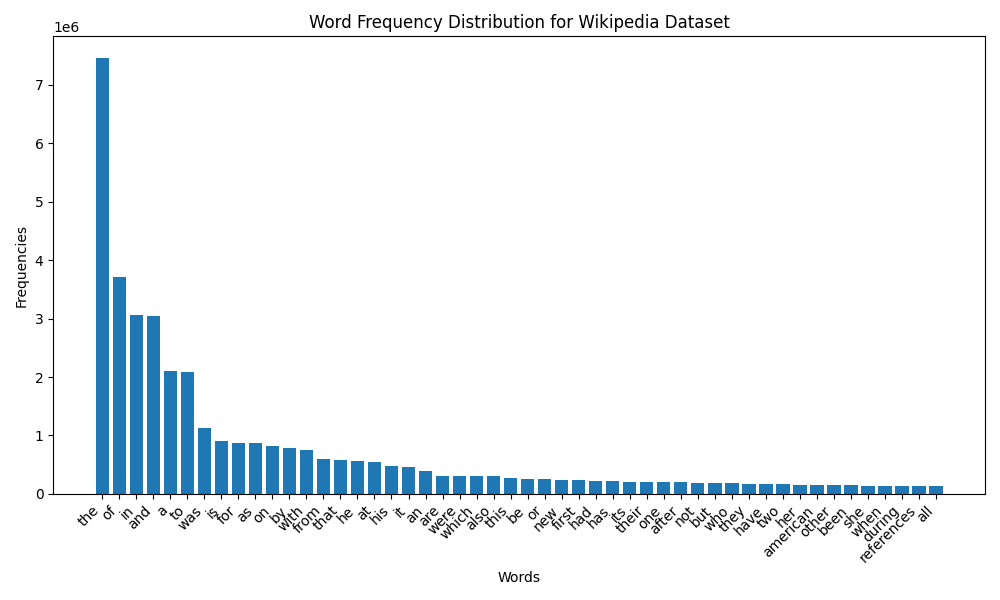
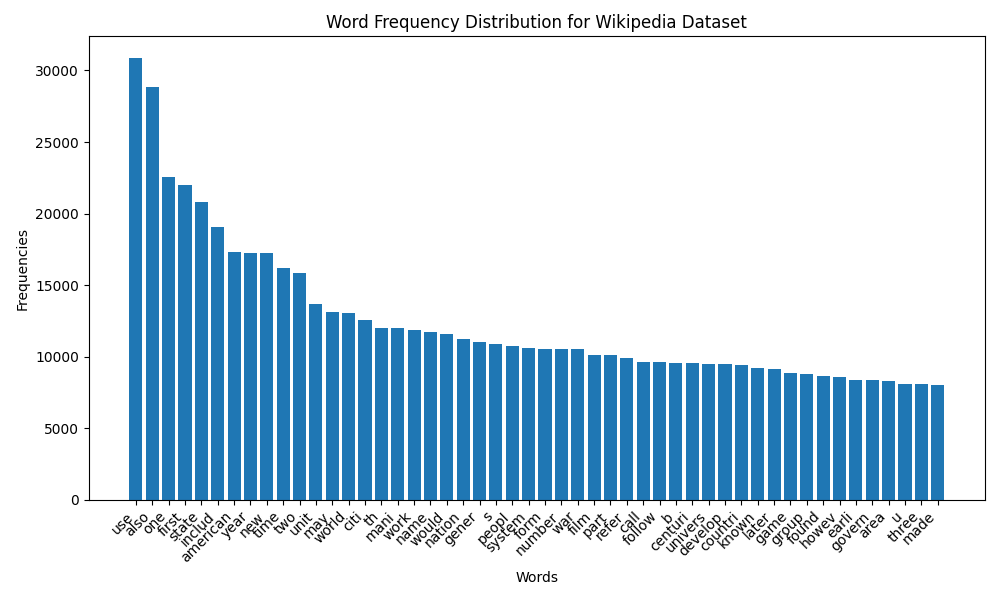
Added max_num_docs to be processed functionality and auto language handling functionality in preprocessing

Changed region(s): [[0.0, 0.09, 0.992, 0.99], [0.31, 0.0, 0.744, 0.06], [0.062, 0.03, 0.093, 0.06]]

diff --git a/indexing_and_retrieval/dataset_handlers.py b/indexing_and_retrieval/dataset_handlers.py
@@ -30,8 +30,9 @@ class Dataset(ABC):
 
 
 class NewsDataset(Dataset):
-    def __init__(self, data_path: str, unzipped: bool) -> None:
+    def __init__(self, data_path: str, max_num_docs: int, unzipped: bool) -> None:
         self.data_path = data_path
+        self.max_num_docs = max_num_docs
         self.unzipped = unzipped
         pass
 
@@ -51,6 +52,8 @@ class NewsDataset(Dataset):
                         all_json_files_paths.append(os.path.join(folder_path, json_file))
             
             # Fet total number of files (to use in tqdm progress bar)
+            if self.max_num_docs != -1:
+                all_json_files_paths = all_json_files_paths[:self.max_num_docs]
             total_files = len(all_json_files_paths)
             yield total_files
 
@@ -75,6 +78,8 @@ class NewsDataset(Dataset):
                             all_json_entries.append((zip_path, json_file))
 
             # Fet total number of files (to use in tqdm progress bar)
+            if self.max_num_docs != -1:
+                all_json_entries = all_json_entries[:self.max_num_docs]
             total_files = len(all_json_entries)
             yield total_files
 
@@ -165,8 +170,22 @@ class NewsDataset(Dataset):
             if lowercase:
                 text = preprocessor.lowercase(text)
             if rem_stop:
-                for lang in stopword_langs:
-                    text = preprocessor.remove_stopwords(text, lang)
+                if "auto" in stopword_langs:
+                    try:
+                        lang: str = data["language"]
+                        text = preprocessor.remove_stopwords(text, lang)
+                    except:
+                        # If language tag not found, skip "auto" and use other specified languages
+                        for lang in stopword_langs:
+                            if lang.strip().lower() == "auto":
+                                continue
+                            text = preprocessor.remove_stopwords(text, lang)
+                else:
+                    # Use all specified languages (no "auto")
+                    for lang in stopword_langs:
+                        if lang.strip().lower() == "auto":
+                            continue
+                        text = preprocessor.remove_stopwords(text, lang)
             if rem_punc or rem_num or rem_special:
                 text = preprocessor.remove(text, rem_punc, rem_num, rem_special)
             if stem:
@@ -181,8 +200,9 @@ class NewsDataset(Dataset):
 
 
 class WikipediaDataset(Dataset):
-    def __init__(self, data_path: str) -> None:
+    def __init__(self, data_path: str, max_num_docs: int) -> None:
         self.data_path = data_path
+        self.max_num_docs = max_num_docs
         pass
 
     # Public functions
@@ -197,16 +217,27 @@ class WikipediaDataset(Dataset):
 
         # Fet total number of rows across all files (to use in tqdm progress bar)
         total_rows = sum(pd.read_parquet(os.path.join(self.data_path, f), engine='pyarrow').shape[0] for f in wikipedia_parquet_files)
+
+        if self.max_num_docs != -1:
+            total_rows = min(total_rows, self.max_num_docs)
         
+        curr_row_count = 0
         with tqdm(total=total_rows, desc="Calculating word frequencies") as pbar:
             for parquet_file in wikipedia_parquet_files:
+                break_flag = False
                 parquet_file_path: str = os.path.join(self.data_path, parquet_file)
                 df = pd.read_parquet(parquet_file_path, engine='pyarrow')
                 for text in df["text"]:
+                    if curr_row_count == self.max_num_docs:
+                        break_flag = True
+                        break
                     item_freq = utils.get_word_freq_dist(text)
                     for word, count in item_freq.items():
                         freq[word] += count
                     pbar.update(1)  # update progress bar for each row
+                    curr_row_count += 1
+                if break_flag:
+                    break
         return freq
 
     def preprocess(self, lowercase: bool, rem_stop: bool, stopword_langs: List[str], rem_punc: bool, rem_num: bool, rem_special: bool, stem: bool, stemming_algo: str, lemmatize: bool, lemmatization_algo: str) -> None:
@@ -217,17 +248,30 @@ class WikipediaDataset(Dataset):
         # Fet total number of rows across all files (to use in tqdm progress bar)
         total_rows = sum(pd.read_parquet(os.path.join(self.data_path, f), engine='pyarrow').shape[0] for f in wikipedia_parquet_files)
         
+        if self.max_num_docs != -1:
+            total_rows = min(total_rows, self.max_num_docs)
+
+        curr_row_count = 0
         preprocessor = Preprocessor()
         with tqdm(total=total_rows, desc="Preprocessing text") as pbar:
             for parquet_file in wikipedia_parquet_files:
+                break_flag = False
                 parquet_file_path: str = os.path.join(self.data_path, parquet_file)
                 df = pd.read_parquet(parquet_file_path, engine='pyarrow')
                 processed_texts = []
                 for text in df["text"]:
+                    if curr_row_count == self.max_num_docs:
+                        # Append remaining unprocessed texts as is and break out
+                        break_flag = True
+                        remaining_texts = df["text"].iloc[len(processed_texts):].tolist()
+                        processed_texts.extend(remaining_texts)
+                        break
                     if lowercase:
                         text = preprocessor.lowercase(text)
                     if rem_stop:
                         for lang in stopword_langs:
+                            if lang.strip().lower() == "auto":
+                                continue
                             text = preprocessor.remove_stopwords(text, lang)
                     if rem_punc or rem_num or rem_special:
                         text = preprocessor.remove(text, rem_punc, rem_num, rem_special)
@@ -238,10 +282,14 @@ class WikipediaDataset(Dataset):
 
                     processed_texts.append(text)
                     pbar.update(1)
+                    curr_row_count += 1
 
                 # Update dataframe with processed text
                 df["text"] = processed_texts
 
                 # Overwrite same parquet file (or change filename if you want to keep original)
                 df.to_parquet(parquet_file_path, index=False, engine='pyarrow')
+
+                if break_flag:
+                    break
         return freq

diff --git a/indexing_and_retrieval/generate_frequency_plots.py b/indexing_and_retrieval/generate_frequency_plots.py
@@ -38,7 +38,8 @@ def plot_frequency_distribution(freq_dict: Dict[str, int], k: int, title: str, x
 def main(args) -> None:
     # Load configuration
     config: dict = utils.load_config()
-    top_k_threshold: int = config["top_k_threshold"]
+    top_k_words_threshold: int = config["top_k_words_threshold"]
+    max_num_documents: int = config["max_num_documents"] if config["max_num_documents"] is not None else -1
     output_folder_path: str = config["output_folder_path"]
     os.makedirs(output_folder_path, exist_ok=True)
 
@@ -48,14 +49,14 @@ def main(args) -> None:
     news_data_path: str = config["data"]["news"]["path"]
     unzipped: bool = config["data"]["news"]["unzip"]
 
-    news_dataset_handler = NewsDataset(news_data_path, unzipped)
+    news_dataset_handler = NewsDataset(news_data_path, max_num_documents, unzipped)
     news_data_freq_dist: dict = news_dataset_handler.calculate_word_frequency()
     plot_frequency_distribution(news_data_freq_dist,
-                                top_k_threshold,
+                                top_k_words_threshold,
                                 "Word Frequency Distribution for News Dataset",
                                 "Words",
                                 "Frequencies",
-                                os.path.join(output_folder_path, f"news_word_frequency_{args.data_state}_top_{top_k_threshold}.png"))
+                                os.path.join(output_folder_path, f"news_word_frequency_{args.data_state}_top_{top_k_words_threshold}.png"))
     print(f"{style.FG_GREEN}Frequency plot for news dataset saved at {output_folder_path}\n{style.RESET}")
 
 
@@ -63,14 +64,14 @@ def main(args) -> None:
     print(f"{style.FG_CYAN}Calculating word frequency for wikipedia dataset...{style.RESET}")
     wikipedia_data_path: str = config["data"]["wikipedia"]["path"]
 
-    wikipedia_dataset_handler = WikipediaDataset(wikipedia_data_path)
+    wikipedia_dataset_handler = WikipediaDataset(wikipedia_data_path, max_num_documents)
     wikipedia_data_freq_dist: dict = wikipedia_dataset_handler.calculate_word_frequency()
     plot_frequency_distribution(wikipedia_data_freq_dist,
-                                top_k_threshold,
+                                top_k_words_threshold,
                                 "Word Frequency Distribution for Wikipedia Dataset",
                                 "Words",
                                 "Frequencies",
-                                os.path.join(output_folder_path, f"wikipedia_word_frequency_{args.data_state}_top_{top_k_threshold}.png"))
+                                os.path.join(output_folder_path, f"wikipedia_word_frequency_{args.data_state}_top_{top_k_words_threshold}.png"))
     print(f"{style.FG_GREEN}Frequency plot for wikipedia dataset saved at {output_folder_path}\n{style.RESET}")
 
 

diff --git a/indexing_and_retrieval/preprocess_data.py b/indexing_and_retrieval/preprocess_data.py
@@ -1,9 +1,8 @@
 # ======================== IMPORTS ========================
 import utils
 from utils import style
-from preprocessor import Preprocessor
-from dataset_handlers import NewsDataset, WikipediaDataset
 from typing import List
+from dataset_handlers import NewsDataset, WikipediaDataset
 
 
 # ======================= FUNCTIONS =======================
@@ -23,17 +22,19 @@ def preprocess_data(config: dict) -> None:
     lemmatization_algo: str | None       = config["preprocessing"]["lemmatization"]["algorithm"]
     lemmatize         : bool             = True if lemmatization_algo else False
 
+    max_num_documents: int = config["max_num_documents"] if config["max_num_documents"] is not None else -1
+
     print(f"{style.FG_CYAN}Preprocessing news dataset...{style.RESET}")
     path_to_news_dataset: str = config["data"]["news"]["path"]
     unzip: bool = config["data"]["news"]["unzip"]
-    NewsDataset(path_to_news_dataset, unzip).preprocess(lowercase, rem_stop, stopword_langs, rem_punc,
+    NewsDataset(path_to_news_dataset, max_num_documents, unzip).preprocess(lowercase, rem_stop, stopword_langs, rem_punc,
                              rem_num, rem_special, stem, stemming_algo,
                              lemmatize, lemmatization_algo)
     print(f"{style.FG_GREEN}Preprocessing of news dataset completed.\n{style.RESET}")
 
     print(f"{style.FG_CYAN}Preprocessing wikipedia dataset...{style.RESET}")
     path_to_wikipedia_dataset: str = config["data"]["wikipedia"]["path"]
-    WikipediaDataset(path_to_wikipedia_dataset).preprocess(lowercase, rem_stop, stopword_langs, rem_punc,
+    WikipediaDataset(path_to_wikipedia_dataset, max_num_documents).preprocess(lowercase, rem_stop, stopword_langs, rem_punc,
                              rem_num, rem_special, stem, stemming_algo,
                              lemmatize, lemmatization_algo)
     print(f"{style.FG_GREEN}Preprocessing of wikipedia dataset completed.\n{style.RESET}")
